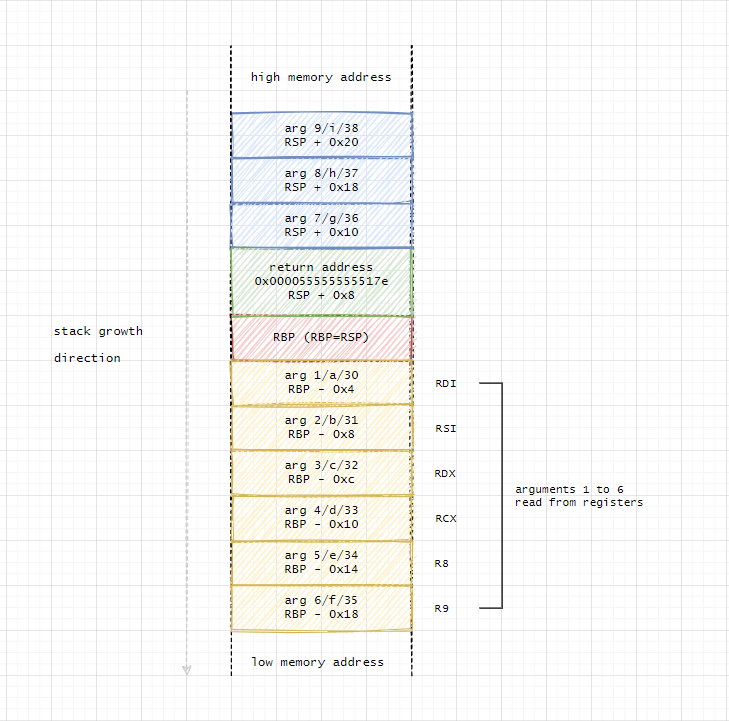
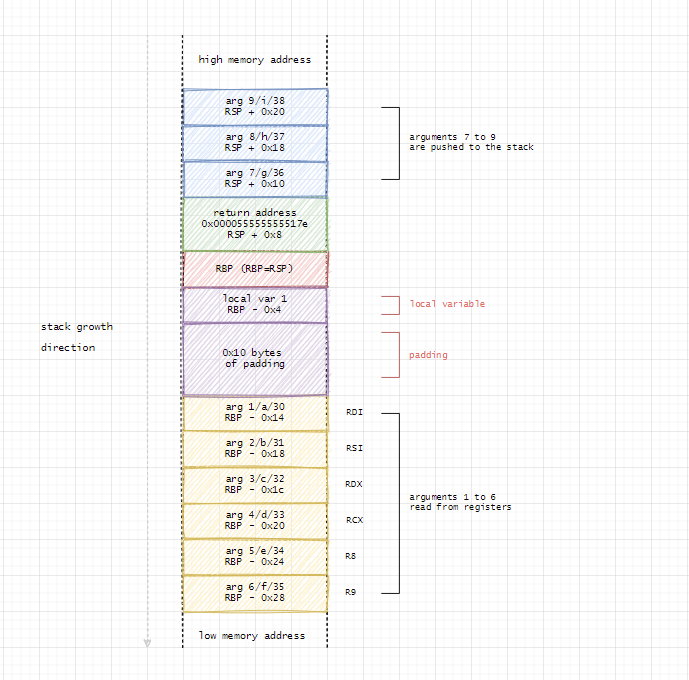
GitBook: [master] one page and 10 assets modified

Changed region(s): [[0.2438, 0.0618, 0.8839, 0.9574], [0.061, 0.4324, 0.2134, 0.525]]

diff --git a/miscellaneous-reversing-forensics/windows-kernel-internals/linux-x64-calling-convention-stack-frame.md b/miscellaneous-reversing-forensics/windows-kernel-internals/linux-x64-calling-convention-stack-frame.md
@@ -4,19 +4,20 @@
 
 In 64-bit Linux system, arguments of type integer/pointers are passed to the callee in the following way:
 
-* Arguments 1-6 are passed via registers RDI, RSI, RDX, RCX, R8, R9;
+* Arguments 1-6 are passed via registers RDI, RSI, RDX, RCX, R8, R9 respectively;
 * Arguments 7 and above are pushed on to the stack.
 
 Once inside the callee function:
 
-* Arguments 1-6 are accessed via registers RDI, RSI, RDX, RCX, R8, R9 before they are modified or by accessing them via offsets from the RBP register like so: `rbp - $offset`. For example, if the first argument is `int` \(4 bytes\), we could access it via `rbp - 0x4`. It's worth noting, that:
-  * if the 1st argument was `long int` \(8 bytes\), you'd access it via `rbp - 0x8`;
-  * if the callee function had 1 local variable, the first argument of type `int` would be accessed via `rbp - (0x10 + 0x4)` or simply `rbp - 0x14`;
-  * if the callee function had more than 16 bytes worth of local variables defined, you'd now access the first argument of type `int` via `rbp - 0x24`, which suggests that with every 16 bytes worth of local variables being defined, the first argument is shifted by 0x10 bytes as shown [here](linux-x64-calling-convention-stack-frame.md#accessing-1st-argument).
+* Arguments 1-6 are accessed via registers RDI, RSI, RDX, RCX, R8, R9 before they are modified or via  offsets from the RBP register like so: `rbp - $offset`. For example, if the first argument passed to the callee is `int` \(4 bytes\), we could access it via `rbp - 0x4`. 
+* It's worth noting, that:
+  * if the 1st argument was 8 bytes \(for example, `long int`\), we'd access it via `rbp - 0x8`;
+  * if the callee function had 1 local variable defined that is smaller or equal to 16 bytes, the first argument of type `int` would be accessed via `rbp - (0x10 + 0x4)` or simply `rbp - 0x14`;
+  * if the callee function had more than 16 bytes reserved for local variables, we'd access the first argument of type `int` via `rbp - 0x24`, which suggests that with every 16 bytes worth of local variables defined, the first argument is shifted by 0x10 bytes as shown [here](linux-x64-calling-convention-stack-frame.md#accessing-1st-argument).
 * Argument 7 can be accessed via `rbp + 0x10`, argument 8 via `rbp + 0x18` and so on.
 
 {% hint style="warning" %}
-Conclusions outlined above are based on the code sample and screenshots provided in the below sections.
+Conclusions listed above are based on the code sample and screenshots provided in the below sections.
 {% endhint %}
 
 ## Code
@@ -71,7 +72,7 @@ Same applies to arguments that are memory addresses/pointers.
 
 Below shows how function's `test` stack frame looks like on a 64-bit platform:
 
-![Stack frame x64 inside the function test\(\)](../../.gitbook/assets/image%20%28882%29.png)
+![Stack frame x64 inside the function test\(\)](../../.gitbook/assets/image%20%28884%29.png)
 
 Note from the above screenshot, we can see that `0x000055555555517e` is a return address to the `main` function, as shown below:
 
@@ -79,17 +80,29 @@ Note from the above screenshot, we can see that `0x000055555555517e` is a return
 
 ### Accessing the 1st Argument
 
-If the callee had a local variable defined, such as `a1 = 0x555577` as in our case, we'd access the first argument not via `rbp - 0x4` as it was the case previously when the callee had no local variables, but via `rbp - 0x14` as seen from the below screenshot:
+Until now, our `test()` function did not have any local variables defined, so let's see how the stack changes once we have some variables and how we can reference them from the stack.
 
-![First argument is now shifted by 0x10 on the stack and can be access via rbp - 0x14](../../.gitbook/assets/image%20%28884%29.png)
+If the callee had a local variable defined, such as `a1 = 0x555577` as in our case shown below, we'd access the first argument not via `rbp - 0x4` as it was the case previously when the callee had no local variables, but via `rbp - 0x14`:
 
-If the callee had more than 16 bytes of local variables defined \(17 bytes in our case as shown in the below screenshot\), we'd now access the first argument via `rbp - 0x24`:
+![First argument is now shifted by 0x10 on the stack and can be access via rbp - 0x14](../../.gitbook/assets/image%20%28887%29.png)
+
+Based on the above case, our stack frame would now look like this:
+
+{% hint style="warning" %}
+Note that the local variable is now at `rbp - 0x4` , followed by 0x10 bytes of padding and the 1st argument is now at `rbp - 0x14`.
+{% endhint %}
+
+![64-bit stack frame with 1 local variable defined inside the callee function](../../.gitbook/assets/image%20%28878%29.png)
+
+
+
+Following the same principle as outlined above, if the callee had more than 16 bytes of local variables defined \(17 bytes in our case as shown in the below screenshot\), we'd now access the first argument via `rbp - 0x24`:
 
 ![First argument is shifted by 0x10 once again and can be access via rbp - 0x24](../../.gitbook/assets/image%20%28877%29.png)
 
-If the callee had more than 32 bytes of local variables defined \(33 bytes in our case as shown in the below screenshot\), we'd now access the first argument via `rbp - 0x34`:
+Similarly, if the callee had more than 32 bytes of local variables defined \(33 bytes in our case as shown in the below screenshot\), we'd now access the first argument via `rbp - 0x34`:
 
-![First argument is shifted by 0x10 once again and can be access via rbp - 0x34](../../.gitbook/assets/image%20%28880%29.png)
+![First argument is shifted by 0x10 once again and can be access via rbp - 0x34](../../.gitbook/assets/image%20%28881%29.png)
 
 ...and so on...
 
